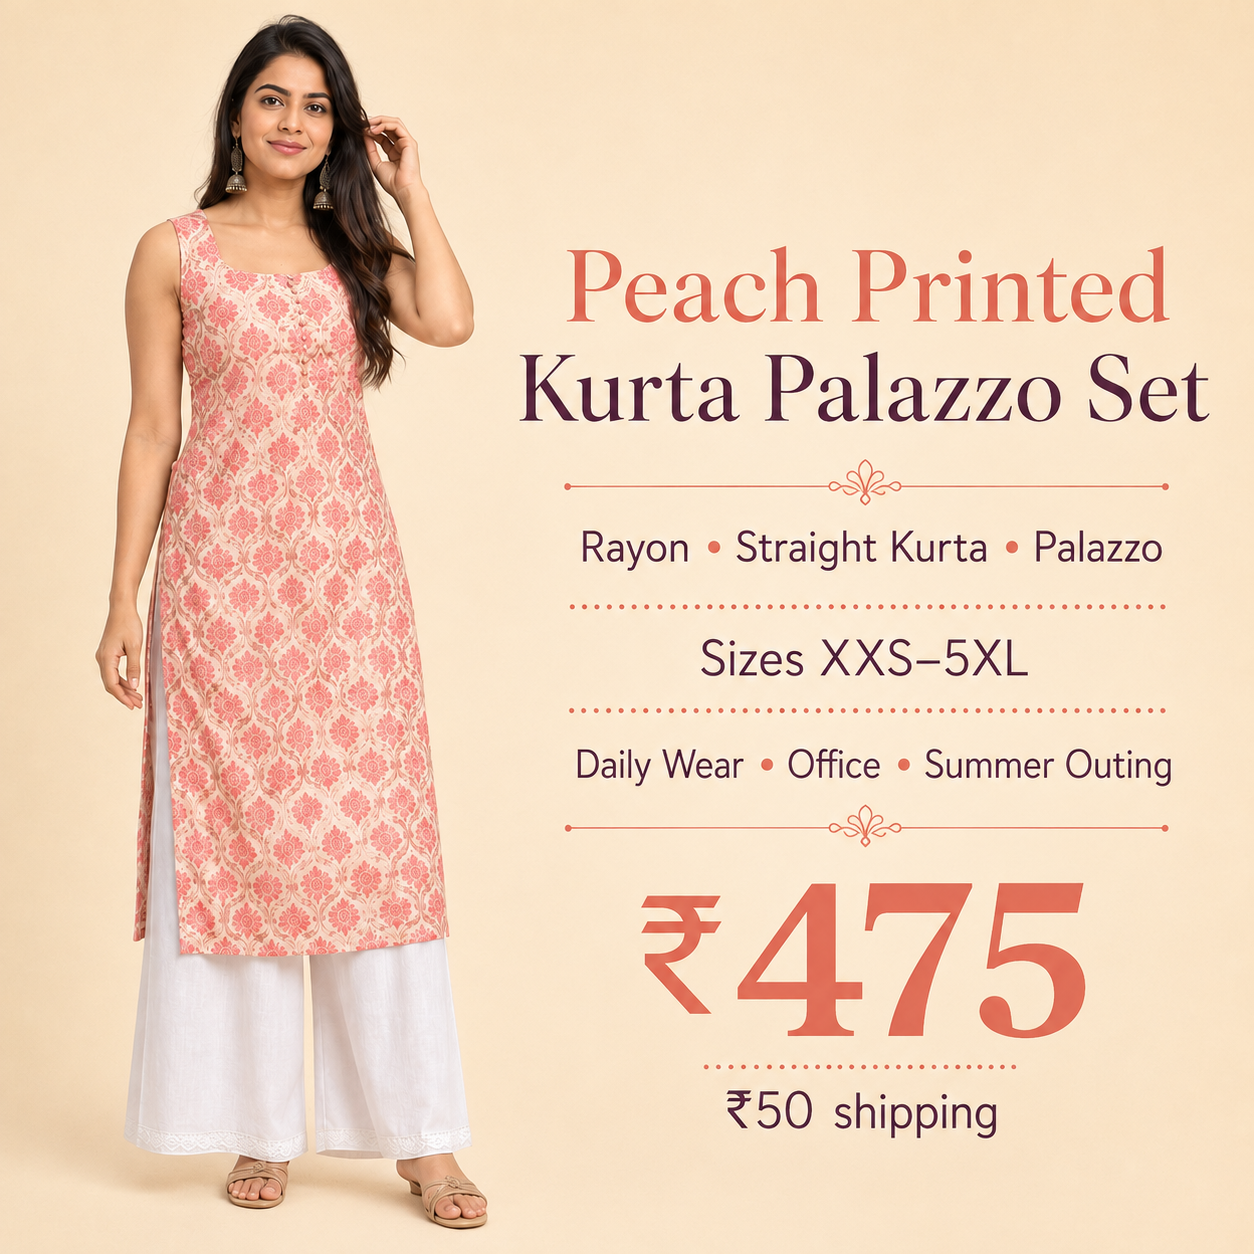
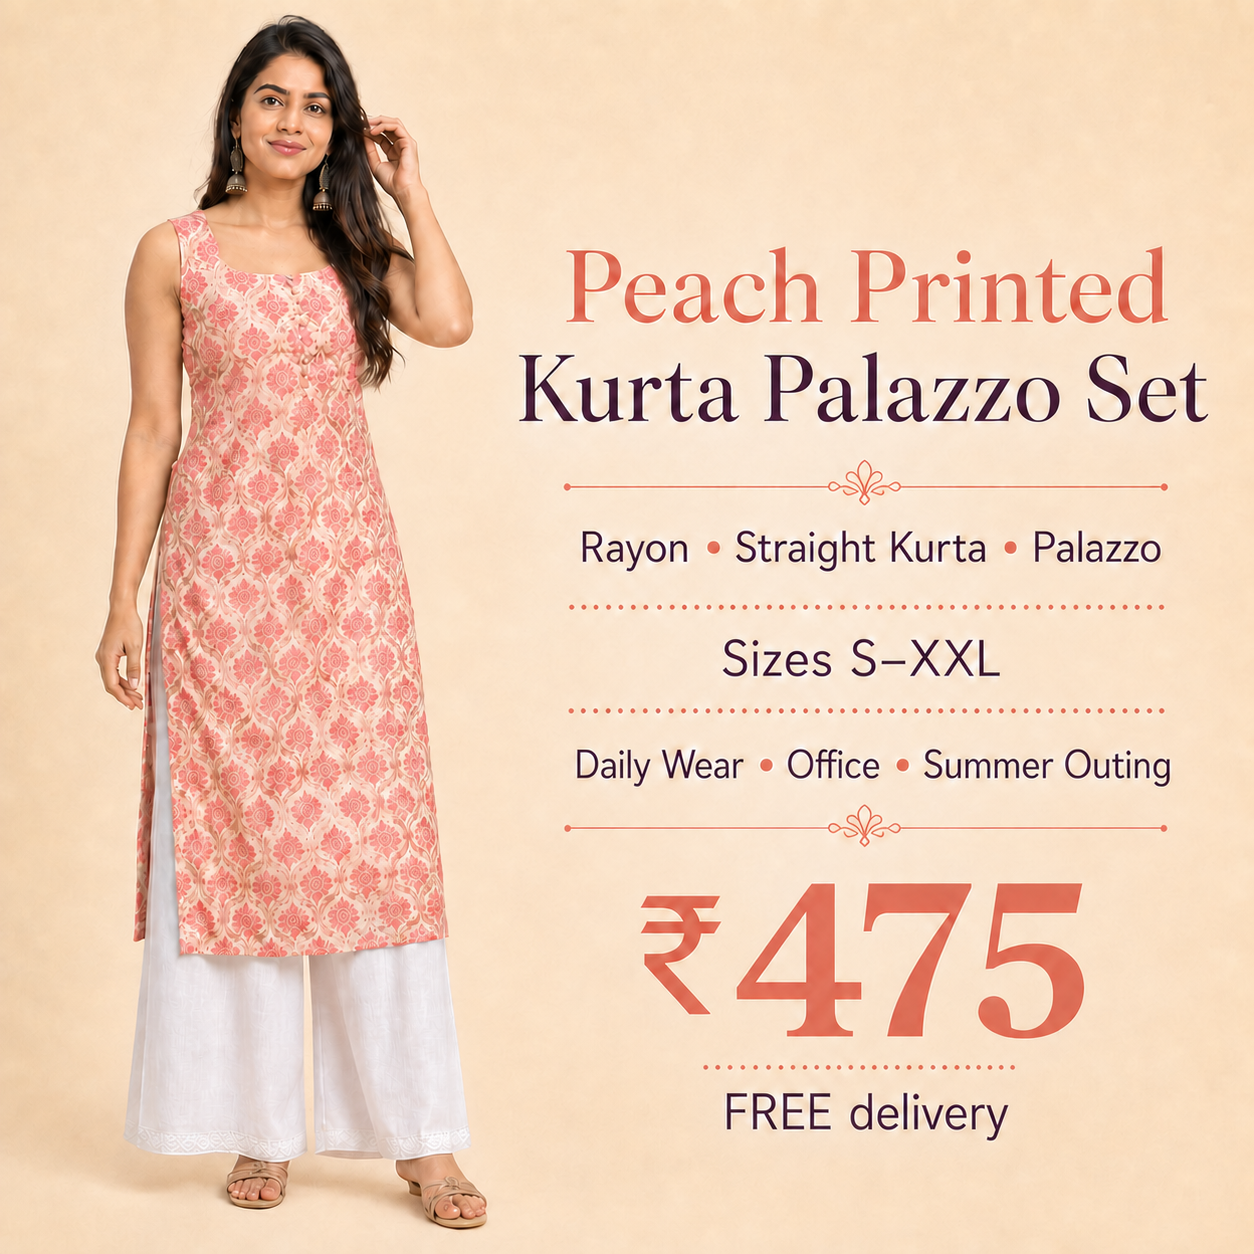
Verify and reprice Product 3

diff --git a/lib/products.ts b/lib/products.ts
@@ -5,7 +5,7 @@ const imageSet=(sku:string)=>names.map((name,index)=>`/images/${sku}/0${index+1}
 export const products:Product[]=[
 {id:"MSH-ETH-001",slug:"ajrakh-black-cotton-straight-kurti",name:"Ajrakh Black Cotton Straight Kurti",category:"Kurtis",collection:"Everyday Ethnic",occasion:"Daily wear / office",sellingPrice:469,images:imageSet("MSH-ETH-001"),sizes:["S","M","L","XL","XXL","XXXL","4XL","5XL","6XL"],variants:[{sku:"MSH-ETH-001-S",size:"S",colour:"Black with red ethnic motifs",price:469,available:true},{sku:"MSH-ETH-001-M",size:"M",colour:"Black with red ethnic motifs",price:478,available:true},{sku:"MSH-ETH-001-L",size:"L",colour:"Black with red ethnic motifs",price:487,available:true},{sku:"MSH-ETH-001-XL",size:"XL",colour:"Black with red ethnic motifs",price:502,available:true},{sku:"MSH-ETH-001-XXL",size:"XXL",colour:"Black with red ethnic motifs",price:502,available:true},{sku:"MSH-ETH-001-XXXL",size:"XXXL",colour:"Black with red ethnic motifs",price:502,available:true},{sku:"MSH-ETH-001-4XL",size:"4XL",colour:"Black with red ethnic motifs",price:502,available:true},{sku:"MSH-ETH-001-5XL",size:"5XL",colour:"Black with red ethnic motifs",price:502,available:true},{sku:"MSH-ETH-001-6XL",size:"6XL",colour:"Black with red ethnic motifs",price:502,available:true}],material:"Cotton",colour:"Black with red ethnic motifs",description:"A black cotton straight kurti with red Ajrakh-inspired motifs, a medallion yoke and decorative tassels for office and everyday wear.",featured:true,bestSeller:true},
 {id:"MSH-ETH-002",slug:"teal-art-silk-embroidered-a-line-kurta",name:"Teal Art-Silk Embroidered A-Line Kurta",category:"Kurtis",collection:"Festive Ethnic",occasion:"Daily",sellingPrice:377,images:imageSet("MSH-ETH-002"),sizes:["XXS","S","M","L","XL","XXL","XXXL","4XL"],variants:[{sku:"MSH-ETH-002-XXS",size:"XXS",colour:"Blue-teal",price:377,available:true},{sku:"MSH-ETH-002-S",size:"S",colour:"Blue-teal",price:442,available:true},{sku:"MSH-ETH-002-M",size:"M",colour:"Blue-teal",price:415,available:true},{sku:"MSH-ETH-002-L",size:"L",colour:"Blue-teal",price:461,available:true},{sku:"MSH-ETH-002-XL",size:"XL",colour:"Blue-teal",price:461,available:true},{sku:"MSH-ETH-002-XXL",size:"XXL",colour:"Blue-teal",price:461,available:true},{sku:"MSH-ETH-002-XXXL",size:"XXXL",colour:"Blue-teal",price:461,available:true},{sku:"MSH-ETH-002-4XL",size:"4XL",colour:"Blue-teal",price:461,available:true}],material:"Art Silk",colour:"Blue-teal",description:"A blue-teal Art Silk A-line kurta with a white geometric U-shaped embroidered yoke and three-quarter sleeves.",newArrival:true},
-{id:"MSH-SET-003",slug:"peach-printed-kurta-palazzo-set",name:"Peach Printed Kurta Palazzo Set",category:"Kurta Sets",collection:"Everyday Sets",occasion:"Casual outing",sellingPrice:675,images:imageSet("MSH-SET-003"),sizes:["XXS","XS","S","M","L","XL","XXL","3XL","4XL","5XL"],material:"Rayon",colour:"Peach",description:"An easy rayon kurta-and-palazzo pairing with a soft peach print.",newArrival:true},
+{id:"MSH-SET-003",slug:"peach-printed-kurta-palazzo-set",name:"Peach Printed Kurta Palazzo Set",category:"Kurta Sets",collection:"Everyday Sets",occasion:"Daily / casual outing",sellingPrice:475,images:imageSet("MSH-SET-003"),sizes:["S","M","L","XL","XXL"],variants:[{sku:"MSH-SET-003-S",size:"S",colour:"Peach kurta with white palazzos",price:475,available:true},{sku:"MSH-SET-003-M",size:"M",colour:"Peach kurta with white palazzos",price:475,available:true},{sku:"MSH-SET-003-L",size:"L",colour:"Peach kurta with white palazzos",price:475,available:true},{sku:"MSH-SET-003-XL",size:"XL",colour:"Peach kurta with white palazzos",price:475,available:true},{sku:"MSH-SET-003-XXL",size:"XXL",colour:"Peach kurta with white palazzos",price:475,available:true}],material:"Rayon",colour:"Peach kurta with white palazzos",description:"A sleeveless peach rayon kurta with a square neckline and floral ethnic-motif print, paired with plain white rayon palazzos.",newArrival:true},
 {id:"MSH-SET-004",slug:"purple-aliya-cut-three-piece-set",name:"Purple Aliya-Cut Three-Piece Set",category:"Kurta Sets",collection:"Festive Sets",occasion:"Wedding guest / party",sellingPrice:658,images:imageSet("MSH-SET-004"),sizes:["S","M","L","XL","XXL","XXXL"],variants:[{sku:"MSH-SET-004-S",size:"S",colour:"Purple",price:658,available:true},{sku:"MSH-SET-004-M",size:"M",colour:"Purple",price:674,available:true},{sku:"MSH-SET-004-L",size:"L",colour:"Purple",price:674,available:true},{sku:"MSH-SET-004-XL",size:"XL",colour:"Purple",price:674,available:true},{sku:"MSH-SET-004-XXL",size:"XXL",colour:"Purple",price:674,available:true},{sku:"MSH-SET-004-XXXL",size:"XXXL",colour:"Purple",price:674,available:true}],material:"Rayon",colour:"Purple",description:"A purple printed rayon Aliya-cut kurta with coordinated pants and a sheer matching dupatta.",featured:true},
 {id:"MSH-GWN-005",slug:"purple-sequin-embroidered-anarkali",name:"Purple Sequin-Embroidered Anarkali",category:"Gowns",collection:"Wedding & Festive",occasion:"Evening party",sellingPrice:832,images:imageSet("MSH-GWN-005"),sizes:["S","M","L","XL","XXL","3XL","4XL","5XL"],material:"Cotton Blend",colour:"Purple",description:"A generous ankle-length Anarkali with delicate sequin accents.",bestSeller:true},
 {id:"MSH-GWN-006",slug:"ivory-floral-rayon-flared-gown",name:"Ivory Floral Rayon Flared Gown",category:"Gowns",collection:"Day Occasion",occasion:"Brunch",sellingPrice:690,images:imageSet("MSH-GWN-006"),sizes:["S","M","L","XL","XXL","3XL","4XL","5XL"],material:"Rayon",colour:"Ivory",description:"A light floral gown with a sweeping ankle-length flare.",newArrival:true},

diff --git a/lib/internal-pricing.server.ts b/lib/internal-pricing.server.ts
@@ -7,7 +7,9 @@ export const sourceCostsBySku: Record<string, number> = {
   "MSH-ETH-001-4XL": 302, "MSH-ETH-001-5XL": 302, "MSH-ETH-001-6XL": 302,
   "MSH-ETH-002-XXS": 177, "MSH-ETH-002-S": 242, "MSH-ETH-002-M": 215,
   "MSH-ETH-002-L": 261, "MSH-ETH-002-XL": 261, "MSH-ETH-002-XXL": 261,
-  "MSH-ETH-002-XXXL": 261, "MSH-ETH-002-4XL": 261, "MSH-SET-003": 475,
+  "MSH-ETH-002-XXXL": 261, "MSH-ETH-002-4XL": 261,
+  "MSH-SET-003-S": 275, "MSH-SET-003-M": 275, "MSH-SET-003-L": 275,
+  "MSH-SET-003-XL": 275, "MSH-SET-003-XXL": 275,
   "MSH-SET-004-S": 458, "MSH-SET-004-M": 474, "MSH-SET-004-L": 474,
   "MSH-SET-004-XL": 474, "MSH-SET-004-XXL": 474, "MSH-SET-004-XXXL": 474,
   "MSH-GWN-005": 632, "MSH-GWN-006": 490,

diff --git a/docs/meesho-project-state.md b/docs/meesho-project-state.md
@@ -44,6 +44,7 @@ The previous Products 16–20 visual concepts—Emerald Green Embroidered Kurta-
 - Products 21–25 passed local browser QA at 320, 360, 375, 390, 430, 768, 1024, 1280, and 1440 widths and passed production QA on `dealstore-five.vercel.app`. The 360–375px header overflow remains corrected, all six PDP assets render without broken images, category placement is correct, Product 22 size-M cart pricing remains ₹641, delivery remains FREE, COD remains selected, and online payment remains disabled. No order was submitted. Vercel reported no runtime errors during the verification window.
 - Product 2 production QA verified all eight size choices, size M switching the live CTA to ₹415, add-to-bag retaining size M and ₹415 in cart, FREE delivery, all six public images, and zero captured client warnings/errors. It is now Live and Meta Ready locally; no Meta upload was performed.
 - Products 4 and 7 production QA verified their six-image PDPs, size M selection and cart pricing at ₹674 and ₹676 respectively, FREE delivery, selected COD checkout, and zero captured client warnings/errors. All twelve public image URLs returned HTTP 200. Both are now Live and Meta Ready locally; no Meta upload was performed.
+- Product 3 is now matched to the exact live Meesho gallery: the same sleeveless peach motif rayon kurta with square neckline and plain white palazzos. Live S–XXL selectors are ₹275, so retail is ₹475 with free delivery. Seller, ratings, reviews and returns were captured; conflicting Meesho neck/dupatta metadata is documented. Only measurement-supported S–XXL are published. Its corrected information card says ₹475, Sizes S–XXL and FREE delivery. Deployment, production cart/COD QA and Meta readiness remain pending.
 - Final local release gates after storefront synchronization: tracked-source ESLint 0 errors (2 ignored generated-file warnings), TypeScript pass, 22/22 tests pass, `meesho:validate` pass with 25 tracked/24 sellable and only known legacy/Product 15 warnings, Vinext production build pass, and `git diff --check` pass.
 
 ## Safety decisions made

diff --git a/data/catalogue-changelog.md b/data/catalogue-changelog.md
@@ -171,3 +171,4 @@
 - Corrected Product 2 to exact source-plus-₹200 pricing (₹377–₹461), replaced the unsafe ₹409/₹50-shipping information card with `From ₹377` and `FREE delivery`, added variant-aware storefront pricing, and promoted the canonical record to `Approved`. Deployment, live cart/COD QA and Meta readiness remain gated.
 - Verified Product 2 on production after deployment: size M changes the CTA to ₹415, add-to-bag retains size M and ₹415 in cart, delivery remains FREE, all six images are public, and no client warnings/errors were captured. Promoted the product to `Live` and Meta `Ready`; regenerated the local feed only and did not upload it.
 - Verified Products 4 and 7 on production: their size-M CTAs and cart lines remain ₹674 and ₹676, all twelve public image assets return HTTP 200, delivery is FREE, COD is selected at checkout, and no client warnings/errors were captured. Promoted both to `Live` and Meta `Ready`; the local feed now has no verified-live blockers and was not uploaded.
+- Reopened the previously rejected Product 3 candidate after the Meesho gallery became directly inspectable. Source images confirm the exact square-neck sleeveless peach motif rayon kurta and white palazzos despite inconsistent round-neck/dupatta text metadata. Captured seller Karikh Garments, 4.3 product rating, 6,754 reviews, 7-day returns, active selectors and flat ₹275 pricing. Published only measurement-supported S–XXL at ₹475 retail, corrected the information card to Sizes S–XXL and FREE delivery, and promoted the canonical record to Approved. Deployment, live cart/COD QA and Meta readiness remain gated.
